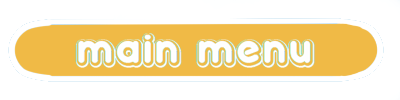
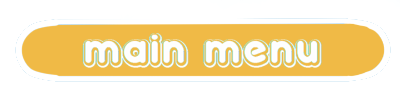
Pause menu full visuals
NOTE: buttons don't work yet, besides resume

diff --git a/GameFrame(BucketBonanza).html b/GameFrame(BucketBonanza).html
@@ -39,18 +39,30 @@
 				var menuDiv = $('<div id="menu">');
 				var pauseMenu = $('<img src="Screens/paused.png" id="pauseBackground">');
 				var resume = $('<img src="buttons/resumeButton.png" id="resumeButton">');
+				var mainMenu = $('<img src="buttons/mainMenuButton.png" id="mainMenuButton">');
+				var restart = $('<img src="buttons/restartButton.png" id="restartButton">');
+				var setting = $('<img src="buttons/settingsButton.png" id="settingsButton">');
 				$(menuDiv).appendTo("body");
 				$(pauseMenu).appendTo(menuDiv);
 				$(resume).appendTo(menuDiv);
+				$(mainMenu).appendTo(menuDiv);
+				$(restart).appendTo(menuDiv);
+				$(setting).appendTo(menuDiv);
 				$("#menu").fadeToggle('slow','swing');
 				$("#pauseBackground").fadeToggle('slow','swing');
 				$("#resumeButton").fadeToggle('slow','swing');
+				$("#restartButton").fadeToggle('slow','swing');
+				$("#mainMenuButton").fadeToggle('slow','swing');
+				$("#settingsButton").fadeToggle('slow','swing');
 				$(this).hide();
 				$("#resumeButton").on('click',function(){
 					$("#pauseBackground").fadeToggle('slow','swing');
 					$("#resumeButton").fadeToggle('slow','swing');
 					$("#pauseBackground").remove();
 					$("#resumeButton").remove();
+					$("#mainMenuButton").remove();
+					$("#restartButton").remove();
+					$("#settingsButton").remove();
 					$("#menu").remove();
 					$("#pauseIcon").show();
 				});
@@ -63,7 +75,7 @@
 	
 </head>
 	<body id="frame">
-	<img id="life" src="Lives/3lifeW.png"/>
+	<img id="life" src="Lives/3lifeB.png"/>
 	<button type="button" id="pauseIcon"></button>
 	 
 </head>
@@ -72,7 +84,6 @@
 	<div class="container-fluid">
 
 	<script>gameBGM.play();</script>
-	<img id="life" src="Lives/3lifeB.png"/>
 	
 	<div>
 		<p id="score">0</p>

diff --git a/game_style.css b/game_style.css
@@ -286,6 +286,7 @@ body{
 	border:0;
 }
 
+
 /* #myModal .modal-dialog  {
 	width:37%;
 	height:95%;
@@ -338,7 +339,36 @@ body{
 	left: 0;
 	right: 0;
 }
-
+#mainMenuButton{
+	display: none;
+	z-index:2;
+	top:45%;
+	width:67%;
+	margin-left: auto;
+	margin-right: auto;
+	left: 0;
+	right: 0;
+}
+#restartButton{
+	display: none;
+	z-index:2;
+	top:60%;
+	width:67%;
+	margin-left: auto;
+	margin-right: auto;
+	left: 0;
+	right: 0;
+}
+#settingsButton{
+	display: none;
+	z-index:2;
+	top:75%;
+	width:67%;
+	margin-left: auto;
+	margin-right: auto;
+	left: 0;
+	right: 0;
+}
 
 @media(max-width:800px){
 	.targetShape{
